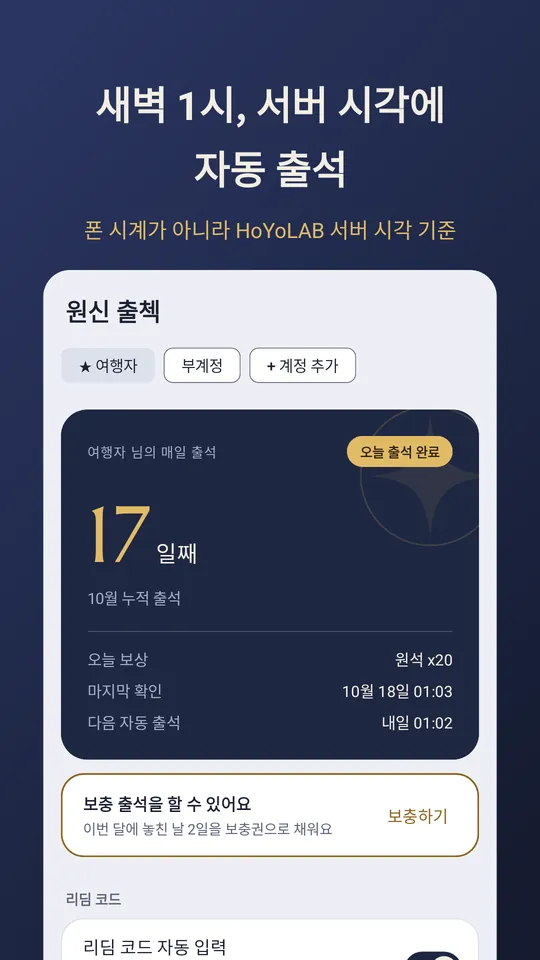
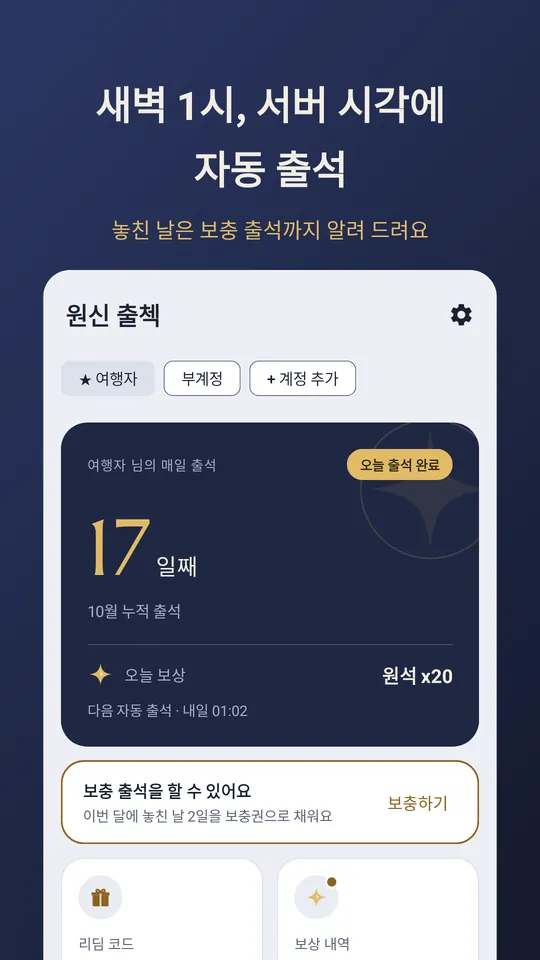
소개 페이지: 새 화면 스크린샷

diff --git a/checkin/index.html b/checkin/index.html
@@ -46,13 +46,12 @@
   <p class="muted">안드로이드 8.0 이상. 정식 출시를 위해 테스터가 2주 동안 앱을 유지해야 해요. 지우지 말아 주세요. 불편한 점은 <a href="mailto:apps@sumi.kr">apps@sumi.kr</a>로 알려 주시면 고쳐서 올릴게요.</p>
 
   <div class="shots" aria-label="앱 화면">
-    <img src="/checkin/img/screenshot1Redeem.webp" alt="방송 리딤코드를 알아서 입력하는 화면" width="540" height="960" loading="lazy">
-    <img src="/checkin/img/screenshot2CheckIn.webp" alt="새벽 1시 서버 시각에 자동 출석하는 화면" width="540" height="960" loading="lazy">
+    <img src="/checkin/img/screenshot1Redeem.webp" alt="받은 리딤 코드와 보상 합계 화면" width="540" height="960" loading="lazy">
+    <img src="/checkin/img/screenshot2CheckIn.webp" alt="새벽 1시 서버 시각에 자동 출석하는 메인 화면" width="540" height="960" loading="lazy">
     <img src="/checkin/img/screenshot3History.webp" alt="이번 달 받은 원석과 리딤 보상 합계 화면" width="540" height="960" loading="lazy">
-    <img src="/checkin/img/screenshot4MakeUp.webp" alt="놓친 날 보충 출석 화면" width="540" height="960" loading="lazy">
-    <img src="/checkin/img/screenshot5Alerts.webp" alt="밤에 온 알림은 무음으로, 아침 알림은 그대로 오는 알림창" width="540" height="960" loading="lazy">
-    <img src="/checkin/img/screenshot6Dark.webp" alt="여러 계정과 다크 모드 화면" width="540" height="960" loading="lazy">
-    <img src="/checkin/img/screenshot7Trust.webp" alt="비밀번호 저장 안 함, 서버·광고 없음, 1MB 미만" width="540" height="960" loading="lazy">
+    <img src="/checkin/img/screenshot4Alerts.webp" alt="밤에 온 알림은 무음으로, 아침 알림은 그대로 오는 알림창" width="540" height="960" loading="lazy">
+    <img src="/checkin/img/screenshot5Dark.webp" alt="여러 계정과 다크 모드 화면" width="540" height="960" loading="lazy">
+    <img src="/checkin/img/screenshot6Trust.webp" alt="비밀번호 저장 안 함, 서버·광고 없음, 1MB 미만" width="540" height="960" loading="lazy">
   </div>
 
   <h2>하는 일</h2>
